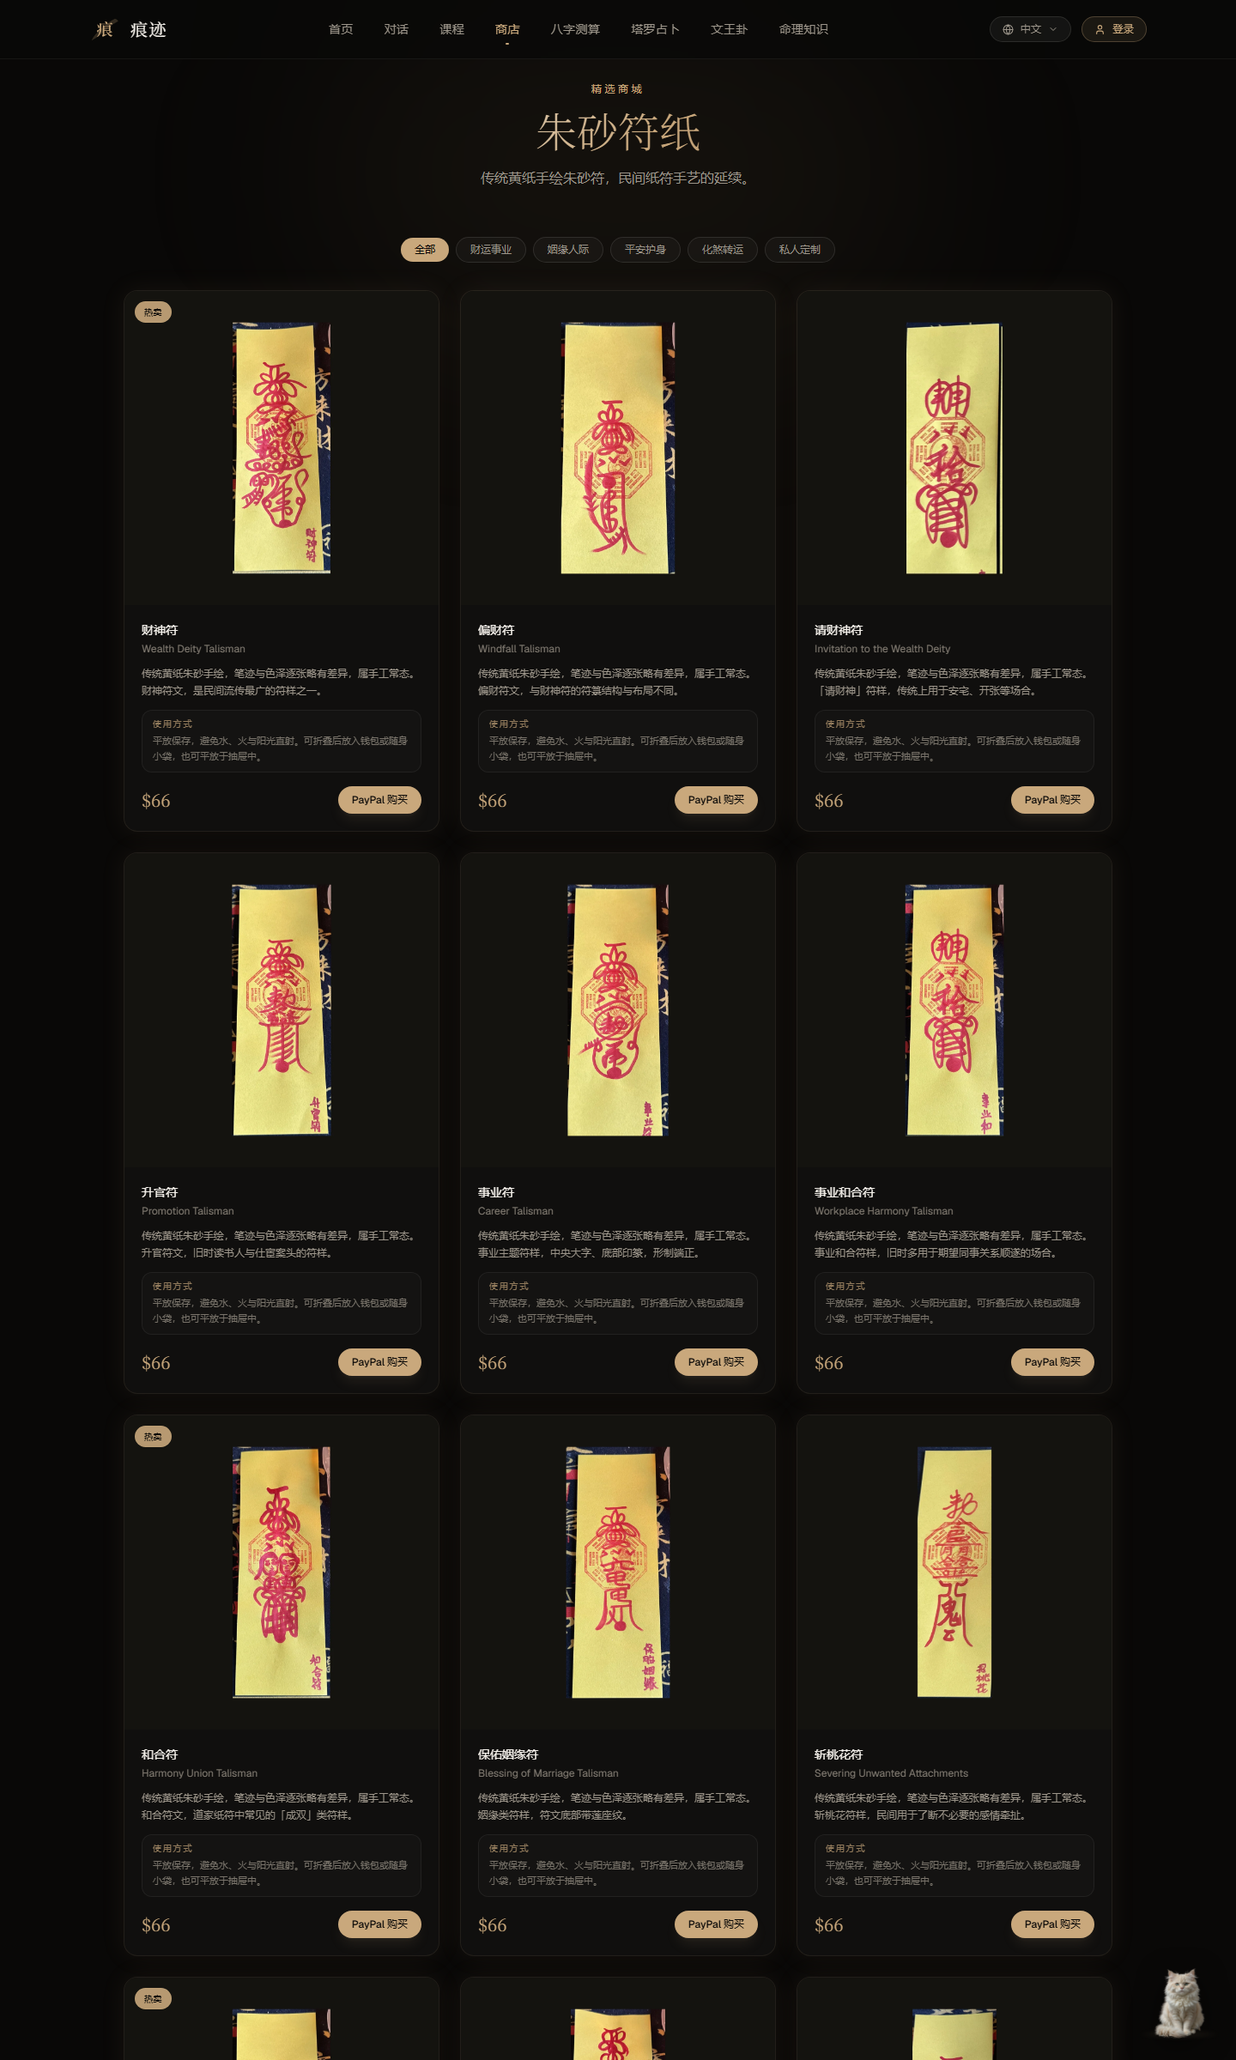
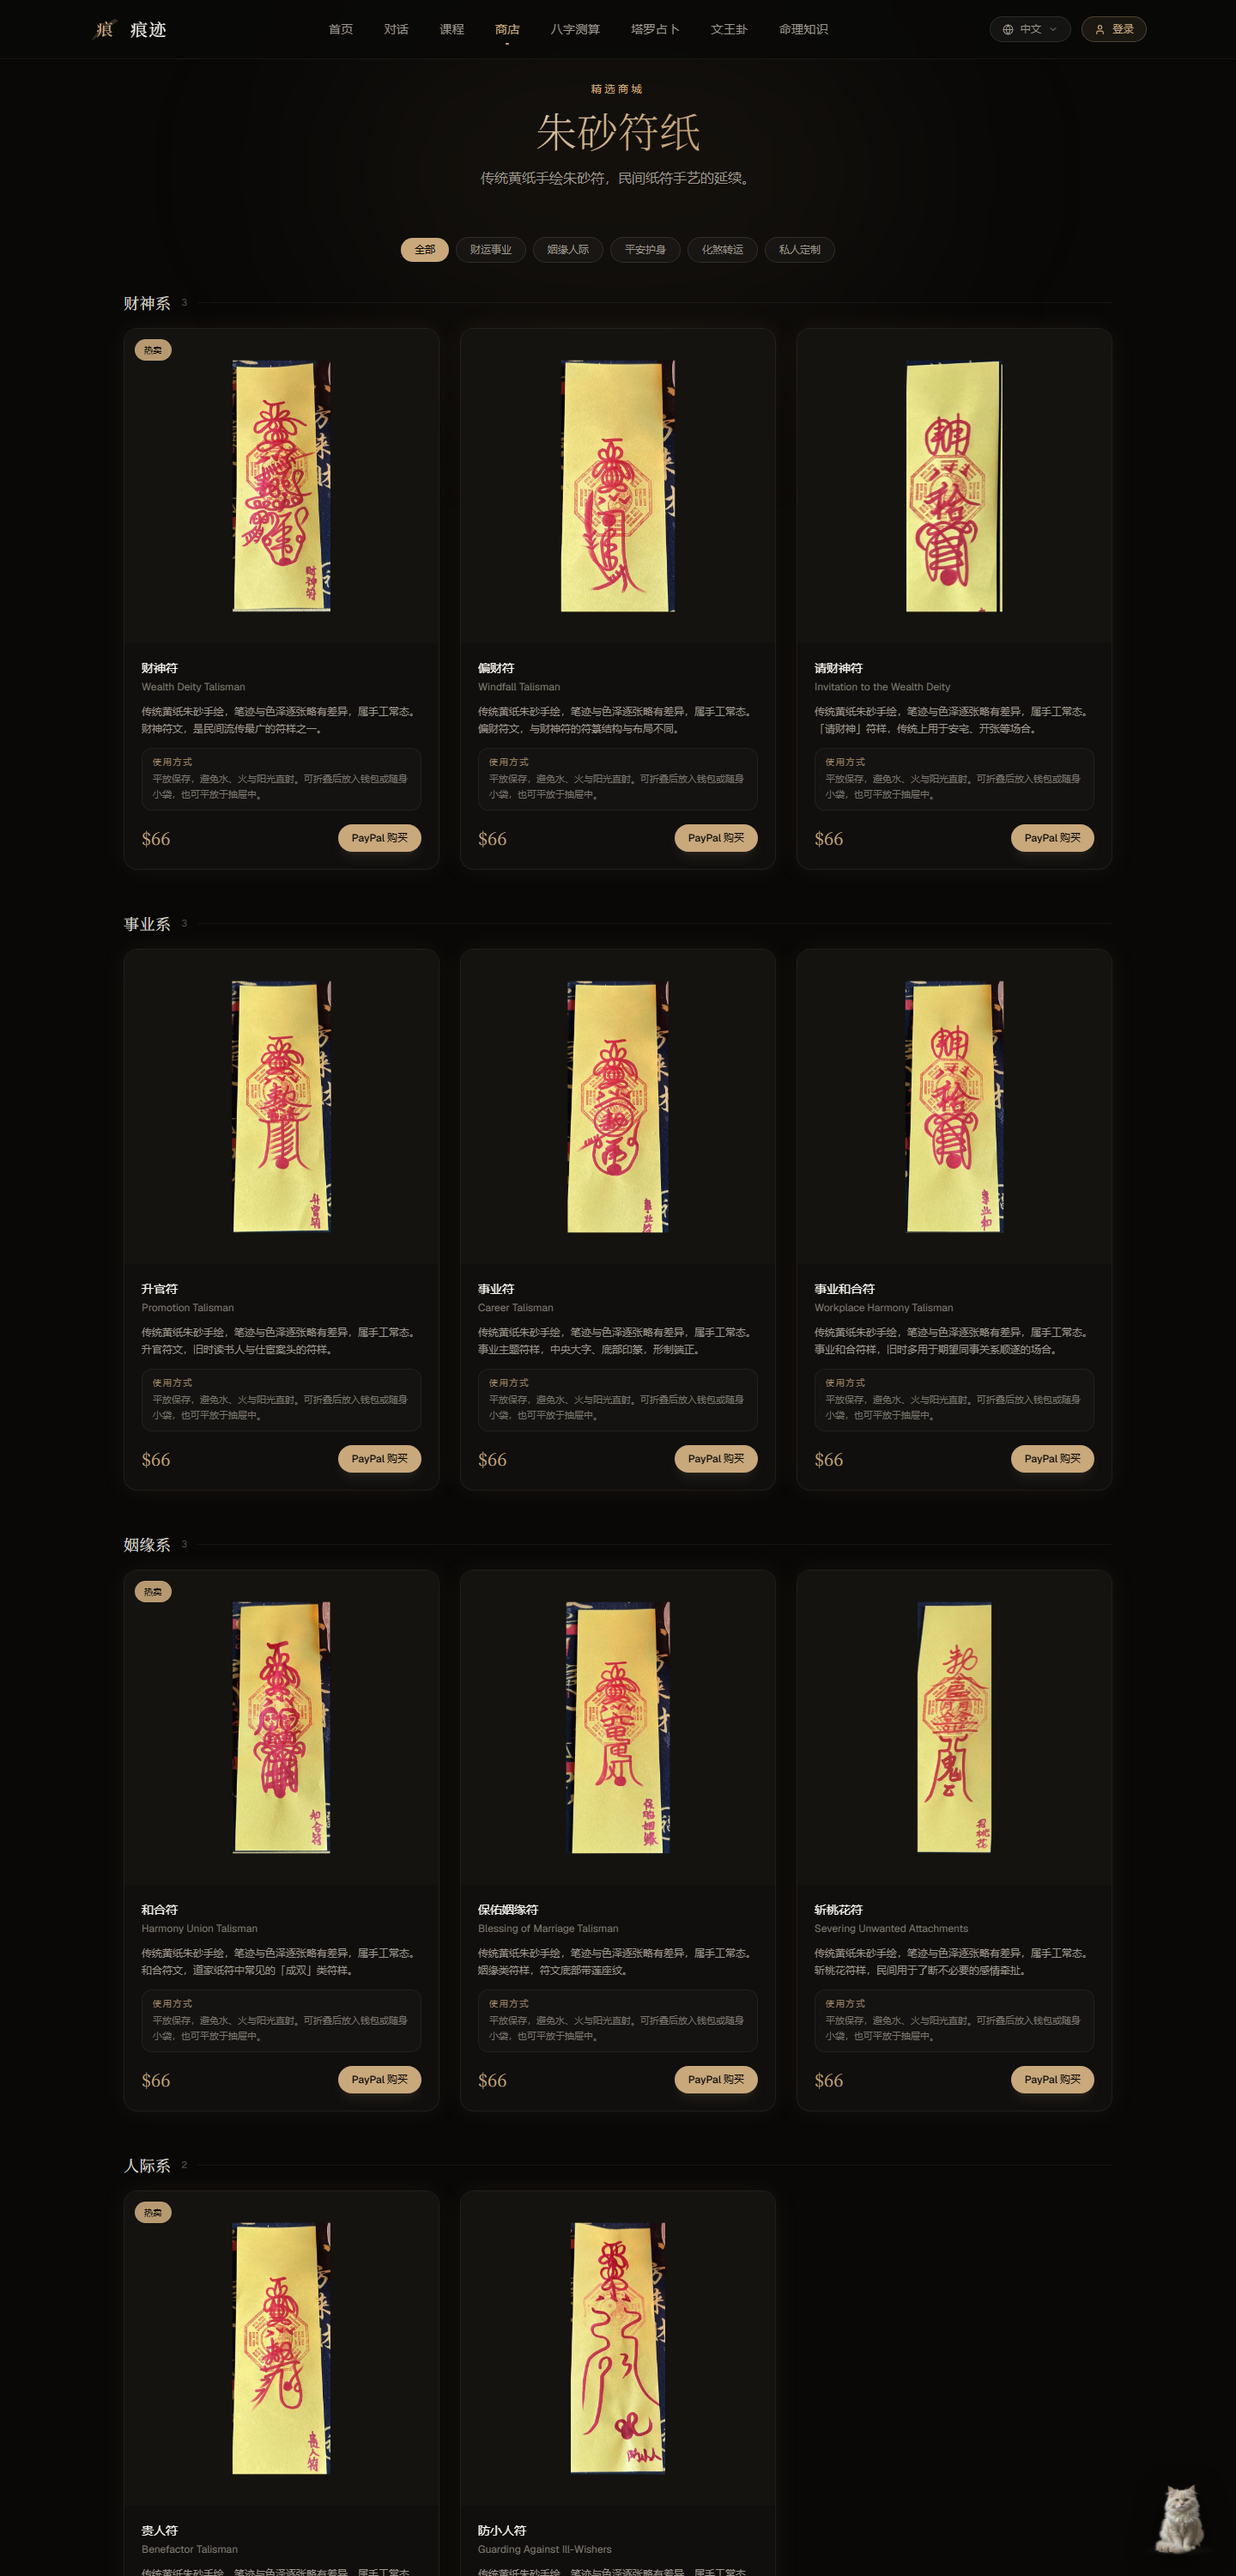
feat(shop): 相近符样归入同一子类别展示（不删款）
站主：'重复的不要' → 进一步明确为「合并后放到同一个子类别里」。

- shop-data: 新增 ShopGroup / SHOP_GROUPS / SHOP_GROUP_ORDER，17 个商品各自标注子类别
- ShopContent: 商品区从平铺网格改为按子类别分组（标题 + 数量 + 分隔线）
- 分组：财神系(3) / 事业系(3) / 姻缘系(3) / 人际系(2) / 护身系(1) / 辟邪系(2) / 化煞系(2) / 定制(1)
- 分组名中英双语（其他语言回落英文，与商品名一致）

diff --git a/lib/shop-data.ts b/lib/shop-data.ts
@@ -11,6 +11,40 @@
 
 export type ShopCategory = "wealth" | "relation" | "protection" | "clearing" | "custom";
 
+/** 子类别（同类合并展示）：把「同一个意思」的几款归到一组，避免看起来重复 */
+export type ShopGroup =
+  | "wealth-deity"
+  | "career"
+  | "marriage"
+  | "social"
+  | "wellbeing"
+  | "warding"
+  | "clearing"
+  | "custom";
+
+export const SHOP_GROUPS: Record<ShopGroup, { en: string; zh: string }> = {
+  "wealth-deity": { en: "Wealth Deities", zh: "财神系" },
+  career: { en: "Career & Rank", zh: "事业系" },
+  marriage: { en: "Marriage & Love", zh: "姻缘系" },
+  social: { en: "Social & Allies", zh: "人际系" },
+  wellbeing: { en: "Wellbeing", zh: "护身系" },
+  warding: { en: "Warding", zh: "辟邪系" },
+  clearing: { en: "Clearing", zh: "化煞系" },
+  custom: { en: "Made to Order", zh: "定制" },
+};
+
+/** 分组展示顺序 */
+export const SHOP_GROUP_ORDER: ShopGroup[] = [
+  "wealth-deity",
+  "career",
+  "marriage",
+  "social",
+  "wellbeing",
+  "warding",
+  "clearing",
+  "custom",
+];
+
 export interface ShopProduct {
   id: string;
   image: string;
@@ -20,6 +54,8 @@ export interface ShopProduct {
   desc: string;
   descZh: string;
   category: ShopCategory;
+  /** 子类别：同一子类别在页面上归成一组 */
+  group: ShopGroup;
   /** 使用方式（海外买家不懂怎么用，必须写清楚） */
   usage: string;
   usageZh: string;
@@ -55,6 +91,7 @@ export const SHOP_PRODUCTS: ShopProduct[] = [
     desc: `${TALISMAN_DESC_EN} The wealth-deity motif is one of the most common in Chinese folk paper charms.`,
     descZh: `${TALISMAN_DESC_ZH}财神符文，是民间流传最广的符样之一。`,
     category: "wealth",
+    group: "wealth-deity",
     usage: USAGE_EN,
     usageZh: USAGE_ZH,
     badge: "bestseller",
@@ -68,6 +105,7 @@ export const SHOP_PRODUCTS: ShopProduct[] = [
     desc: `${TALISMAN_DESC_EN} The "windfall" (pian cai) motif differs from the wealth-deity charm in its seal script and layout.`,
     descZh: `${TALISMAN_DESC_ZH}偏财符文，与财神符的符箓结构与布局不同。`,
     category: "wealth",
+    group: "wealth-deity",
     usage: USAGE_EN,
     usageZh: USAGE_ZH,
   },
@@ -80,6 +118,7 @@ export const SHOP_PRODUCTS: ShopProduct[] = [
     desc: `${TALISMAN_DESC_EN} A "welcoming" variant of the wealth-deity charm, traditionally used when setting up a home or shop altar.`,
     descZh: `${TALISMAN_DESC_ZH}「请财神」符样，传统上用于安宅、开张等场合。`,
     category: "wealth",
+    group: "wealth-deity",
     usage: USAGE_EN,
     usageZh: USAGE_ZH,
   },
@@ -92,6 +131,7 @@ export const SHOP_PRODUCTS: ShopProduct[] = [
     desc: `${TALISMAN_DESC_EN} The "rising rank" (sheng guan) motif — an old stationery-style charm once kept in scholar-officials' desks.`,
     descZh: `${TALISMAN_DESC_ZH}升官符文，旧时读书人与仕宦案头的符样。`,
     category: "wealth",
+    group: "career",
     usage: USAGE_EN,
     usageZh: USAGE_ZH,
   },
@@ -104,6 +144,7 @@ export const SHOP_PRODUCTS: ShopProduct[] = [
     desc: `${TALISMAN_DESC_EN} A straightforward career-themed charm: bold central script with a seal-block base.`,
     descZh: `${TALISMAN_DESC_ZH}事业主题符样，中央大字、底部印篆，形制端正。`,
     category: "wealth",
+    group: "career",
     usage: USAGE_EN,
     usageZh: USAGE_ZH,
   },
@@ -116,6 +157,7 @@ export const SHOP_PRODUCTS: ShopProduct[] = [
     desc: `${TALISMAN_DESC_EN} A "harmony at work" variant — traditionally kept by people navigating difficult colleagues.`,
     descZh: `${TALISMAN_DESC_ZH}事业和合符样，旧时多用于期望同事关系顺遂的场合。`,
     category: "wealth",
+    group: "career",
     usage: USAGE_EN,
     usageZh: USAGE_ZH,
   },
@@ -130,6 +172,7 @@ export const SHOP_PRODUCTS: ShopProduct[] = [
     desc: `${TALISMAN_DESC_EN} The "he he" (harmonious union) motif, one of the classic pair-charm designs in Daoist paper arts.`,
     descZh: `${TALISMAN_DESC_ZH}和合符文，道家纸符中常见的「成双」类符样。`,
     category: "relation",
+    group: "marriage",
     usage: USAGE_EN,
     usageZh: USAGE_ZH,
     badge: "bestseller",
@@ -143,6 +186,7 @@ export const SHOP_PRODUCTS: ShopProduct[] = [
     desc: `${TALISMAN_DESC_EN} A marriage-blessing charm with a lotus-seat motif at the base of the script.`,
     descZh: `${TALISMAN_DESC_ZH}姻缘类符样，符文底部带莲座纹。`,
     category: "relation",
+    group: "marriage",
     usage: USAGE_EN,
     usageZh: USAGE_ZH,
   },
@@ -155,6 +199,7 @@ export const SHOP_PRODUCTS: ShopProduct[] = [
     desc: `${TALISMAN_DESC_EN} The "cutting the peach blossom" motif — in folk practice, for closing off unwanted romantic entanglements.`,
     descZh: `${TALISMAN_DESC_ZH}斩桃花符样，民间用于了断不必要的感情牵扯。`,
     category: "relation",
+    group: "marriage",
     usage: USAGE_EN,
     usageZh: USAGE_ZH,
   },
@@ -167,6 +212,7 @@ export const SHOP_PRODUCTS: ShopProduct[] = [
     desc: `${TALISMAN_DESC_EN} The "gui ren" (benefactor) motif — a charm about meeting the right people at the right time.`,
     descZh: `${TALISMAN_DESC_ZH}贵人符文，取「遇人得助」之意。`,
     category: "relation",
+    group: "social",
     usage: USAGE_EN,
     usageZh: USAGE_ZH,
     badge: "bestseller",
@@ -180,6 +226,7 @@ export const SHOP_PRODUCTS: ShopProduct[] = [
     desc: `${TALISMAN_DESC_EN} The "defend against the petty" (fang xiao ren) motif, traditionally carried in the workplace.`,
     descZh: `${TALISMAN_DESC_ZH}防小人符样，旧时多随身携带于职场场合。`,
     category: "relation",
+    group: "social",
     usage: USAGE_EN,
     usageZh: USAGE_ZH,
   },
@@ -194,6 +241,7 @@ export const SHOP_PRODUCTS: ShopProduct[] = [
     desc: `${TALISMAN_DESC_EN} A wellness-themed charm; the brushwork is deliberately thin and steady.`,
     descZh: `${TALISMAN_DESC_ZH}健康类符样，笔势偏细而稳。`,
     category: "protection",
+    group: "wellbeing",
     usage: USAGE_EN,
     usageZh: USAGE_ZH,
   },
@@ -206,6 +254,7 @@ export const SHOP_PRODUCTS: ShopProduct[] = [
     desc: `${TALISMAN_DESC_EN} A "qu xie" (warding) charm with a dense vertical seal script and a stamped seal at the foot.`,
     descZh: `${TALISMAN_DESC_ZH}驱邪符样，纵向符箓密集，符脚带印篆。`,
     category: "protection",
+    group: "warding",
     usage: USAGE_EN,
     usageZh: USAGE_ZH,
   },
@@ -218,6 +267,7 @@ export const SHOP_PRODUCTS: ShopProduct[] = [
     desc: `${TALISMAN_DESC_EN} A folk "ghost-warding" design, kept for its traditional motif rather than any practical claim.`,
     descZh: `${TALISMAN_DESC_ZH}民间驱鬼符样，取其传统形制与纹样。`,
     category: "protection",
+    group: "warding",
     usage: USAGE_EN,
     usageZh: USAGE_ZH,
   },
@@ -232,6 +282,7 @@ export const SHOP_PRODUCTS: ShopProduct[] = [
     desc: `${TALISMAN_DESC_EN} The "hundred resolutions" (bai jie) charm — traditionally used for disputes and legal matters.`,
     descZh: `${TALISMAN_DESC_ZH}百解符咒，传统上用于化解口舌官非类事。`,
     category: "clearing",
+    group: "clearing",
     usage: USAGE_EN,
     usageZh: USAGE_ZH,
   },
@@ -244,6 +295,7 @@ export const SHOP_PRODUCTS: ShopProduct[] = [
     desc: `${TALISMAN_DESC_EN} The "zhuan yun" (turn of fortune) motif, with a long flowing script and a seal at the base.`,
     descZh: `${TALISMAN_DESC_ZH}转运符样，符箓线条绵长，符脚收于印篆。`,
     category: "clearing",
+    group: "clearing",
     usage: USAGE_EN,
     usageZh: USAGE_ZH,
   },
@@ -260,6 +312,7 @@ export const SHOP_PRODUCTS: ShopProduct[] = [
     descZh:
       "按需手绘：由你提供姓名与所请之事，以朱砂手书于传统黄纸之上。逐张手绘，出货需数个工作日。",
     category: "custom",
+    group: "custom",
     usage:
       "After ordering, reply to the order email with the name and the wording you want on the charm. Keep the finished piece flat and dry, away from water and fire.",
     usageZh:

diff --git a/components/ShopContent.tsx b/components/ShopContent.tsx
@@ -4,7 +4,14 @@ import { useState } from "react";
 import { Sparkles, Gem, Truck, Info, ShieldCheck } from "lucide-react";
 import { Locale } from "@/lib/i18n";
 import { getShopMessages } from "@/lib/shop-i18n";
-import { SHOP_PRODUCTS, SHOP_CATEGORIES, type ShopProduct, type ShopCategory } from "@/lib/shop-data";
+import {
+  SHOP_PRODUCTS,
+  SHOP_CATEGORIES,
+  SHOP_GROUPS,
+  SHOP_GROUP_ORDER,
+  type ShopProduct,
+  type ShopCategory,
+} from "@/lib/shop-data";
 import { getPayMessages } from "@/lib/pay-i18n";
 import { PayPalButton } from "./PayPalButton";
 import { BalancePayButton } from "./BalancePayButton";
@@ -81,8 +88,20 @@ export function ShopContent({ locale }: { locale: Locale }) {
 
       {/* Products */}
       <section className="px-6 pb-8">
-        <div className="mx-auto grid max-w-6xl gap-6 sm:grid-cols-2 lg:grid-cols-3">
-          {shown.map((p) => (
+        <div className="mx-auto max-w-6xl space-y-12">
+          {SHOP_GROUP_ORDER.filter((g) => shown.some((p) => p.group === g)).map((g) => (
+            <div key={g}>
+              <div className="mb-4 flex items-center gap-3">
+                <h2 className="font-serif text-lg tracking-wide text-foreground/90">
+                  {isZh ? SHOP_GROUPS[g].zh : SHOP_GROUPS[g].en}
+                </h2>
+                <span className="text-[11px] text-muted/50">
+                  {shown.filter((p) => p.group === g).length}
+                </span>
+                <div className="h-px flex-1 bg-white/[0.06]" />
+              </div>
+              <div className="grid gap-6 sm:grid-cols-2 lg:grid-cols-3">
+                {shown.filter((p) => p.group === g).map((p) => (
             <div
               key={p.id}
               className="glass glow-sm group flex flex-col overflow-hidden rounded-2xl transition hover:border-accent/30"
@@ -182,6 +201,9 @@ export function ShopContent({ locale }: { locale: Locale }) {
                     {pay.shopSuccess}
                   </p>
                 )}
+              </div>
+            </div>
+                ))}
               </div>
             </div>
           ))}
